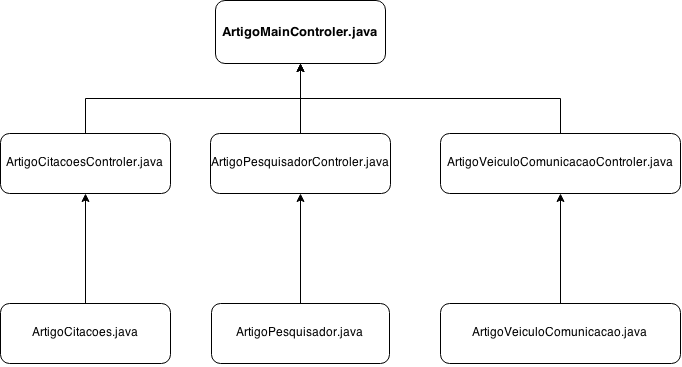
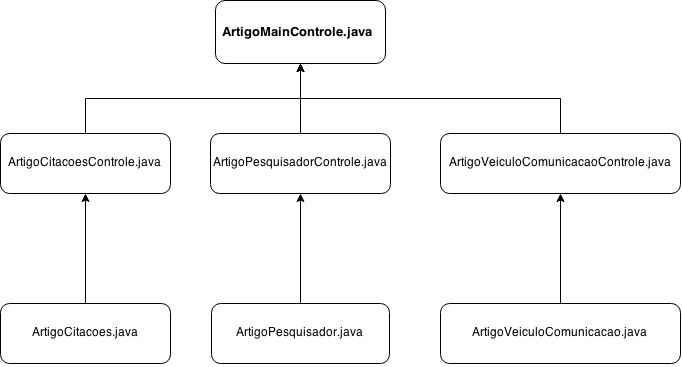
Implementação 'pronta'

diff --git a/doc/TP0doc.tex b/doc/TP0doc.tex
@@ -48,17 +48,17 @@
     \caption{Estrutura de Dependência de Artigo}
    \label{Rotulo}
   \end{figure}
-  Como pode ser visto no diagrama acima, a classe \textbf{ArtigoMainControler.java} faz o encapsulamento das demais classes, fornecendo o conjunto de todas as operações necessárias envolvendo um Artigo, não sendo necessario assim nenhuma altaração nas classes bases.\\\\
+  Como pode ser visto no diagrama acima, a classe \textbf{ArtigoMainControle.java} faz o encapsulamento das demais classes, fornecendo o conjunto de todas as operações necessárias envolvendo um Artigo, não sendo necessario assim nenhuma altaração nas classes bases.\\\\
   A modularização das entidades Pesquisador e Veiculo de Comunicação foram feitas de forma similar a classe Artigo, porém de forma mais simples pois essas classes não tem dependências de demais classes, o que facilita o reuso e a manutenção destas.
 
   \subsection*{2.2. Conceitos OO}
     Para a modularização e o encapsulamento das classes fossem possíveis, foi necessária a implementação dos conceitos de \textit{Orientação a Objeto}.\\\\
-    O conceito utilizado para realizar o relacionamento entre as classes foi o de \textbf{Composição} onde temos uma classe que funciona como o \textit{todo} e classes que funcionam como uma parte deste todo, por exemplo, a classe \textbf{PesquisadorControler} (responsável pela implementação dos metódos referentes a entidade Pesquisador) é o todo e a classe \textbf{Pesquisador} é parte da classe \textbf{PesquisadorControler}.
+    O conceito utilizado para realizar o relacionamento entre as classes foi o de \textbf{Composição} onde temos uma classe que funciona como o \textit{todo} e classes que funcionam como uma parte deste todo, por exemplo, a classe \textbf{PesquisadorControle} (responsável pela implementação dos metódos referentes a entidade Pesquisador) é o todo e a classe \textbf{Pesquisador} é parte da classe \textbf{PesquisadorControle}.
     Foi utilizado também o conceito de Objeto, que foi utilizado para que o acesso as classes dependentes fosse possível.
 
   \subsection*{2.3. Calculos e Execução}
     O principal objetivo do trabalho era fornecer uma lista com a popularidade de cada pesquisador, o fator de impacto de cada veiculo de comunicação e a pontuação de cada artigo. Para resolver esses problemas, foi criada uma classe especifica que processa todos esses dados e gera os dados solicitados.\\\\
-    Esta classe é composta por objetos de todas as classes \textbf{Controler} que fornecem as operações de suas respectivas entidades, tornando possível o processamento dos dados e o fornecimento das respostas.\\\\
+    Esta classe é composta por objetos de todas as classes \textbf{Controle} que fornecem as operações de suas respectivas entidades, tornando possível o processamento dos dados e o fornecimento das respostas.\\\\
     Para que a solução fosse executada, foi desenvolvida uma classe principal, \textbf{MainClass}, que contem um construtor e um objeto da classe \textbf{Resultado} que realiza os cálculos necessários pra solucionar o problema proposto.
 
 
